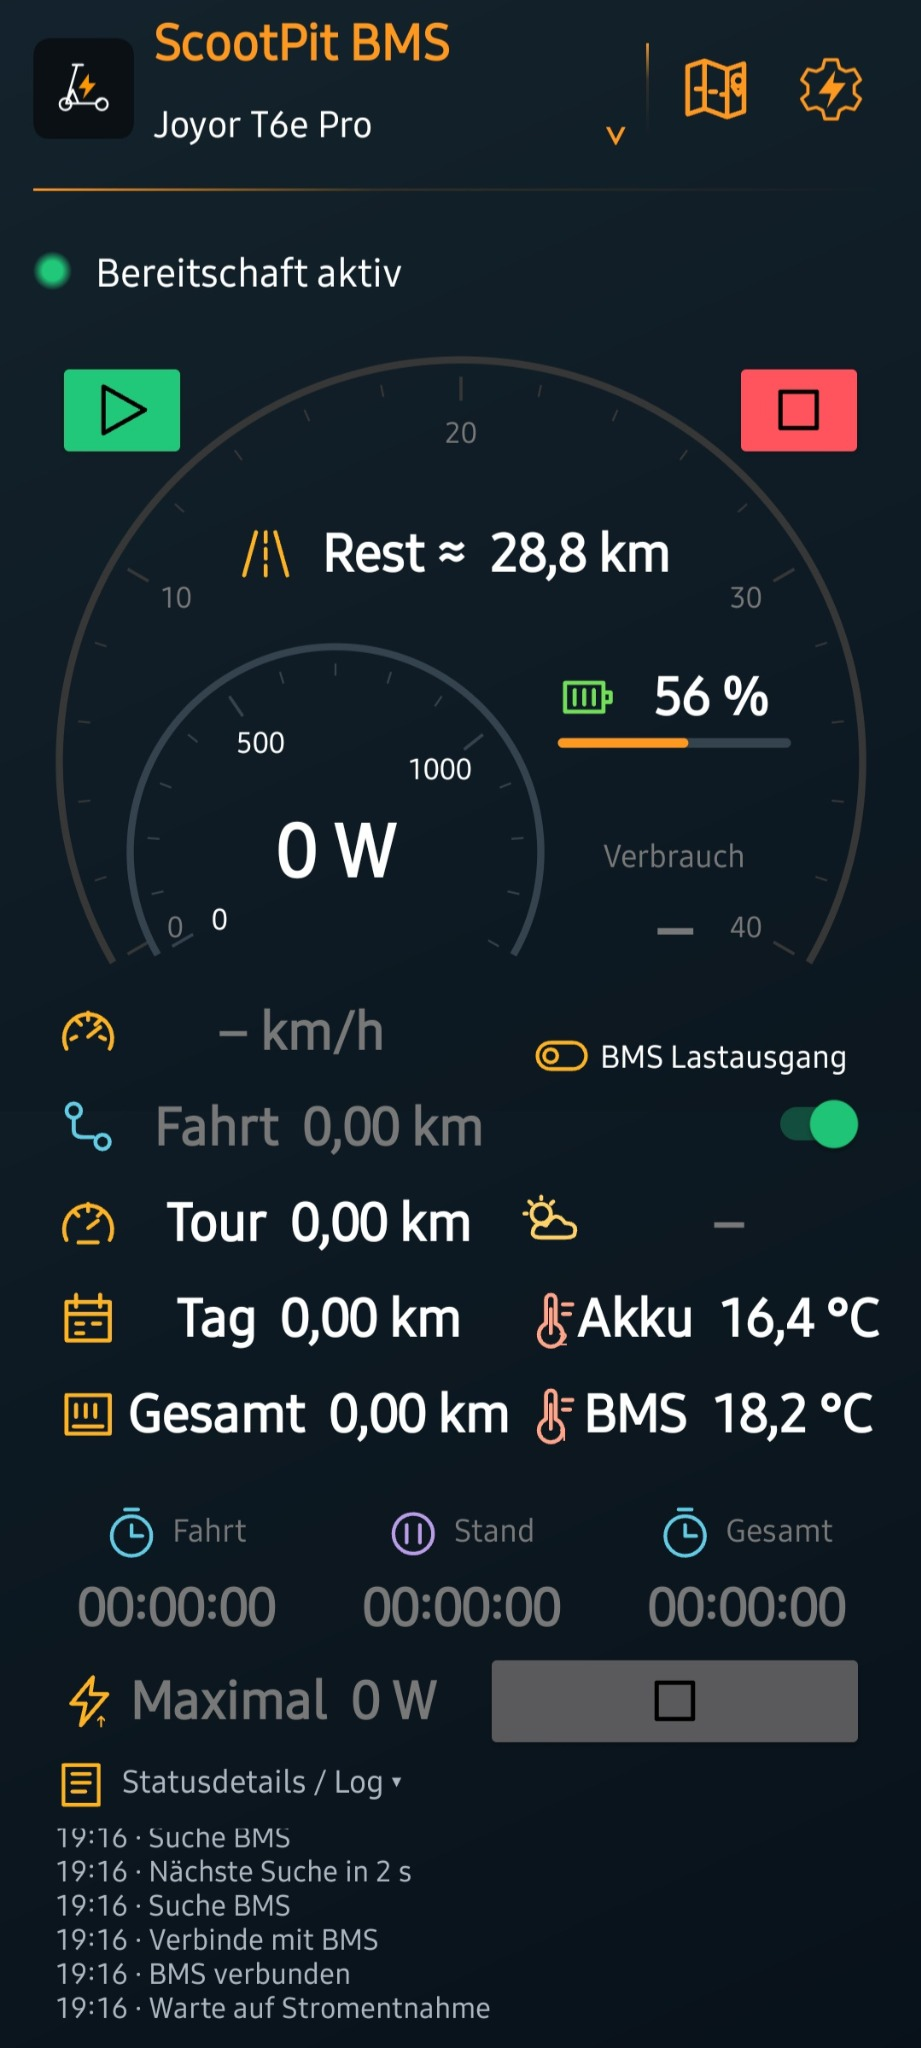
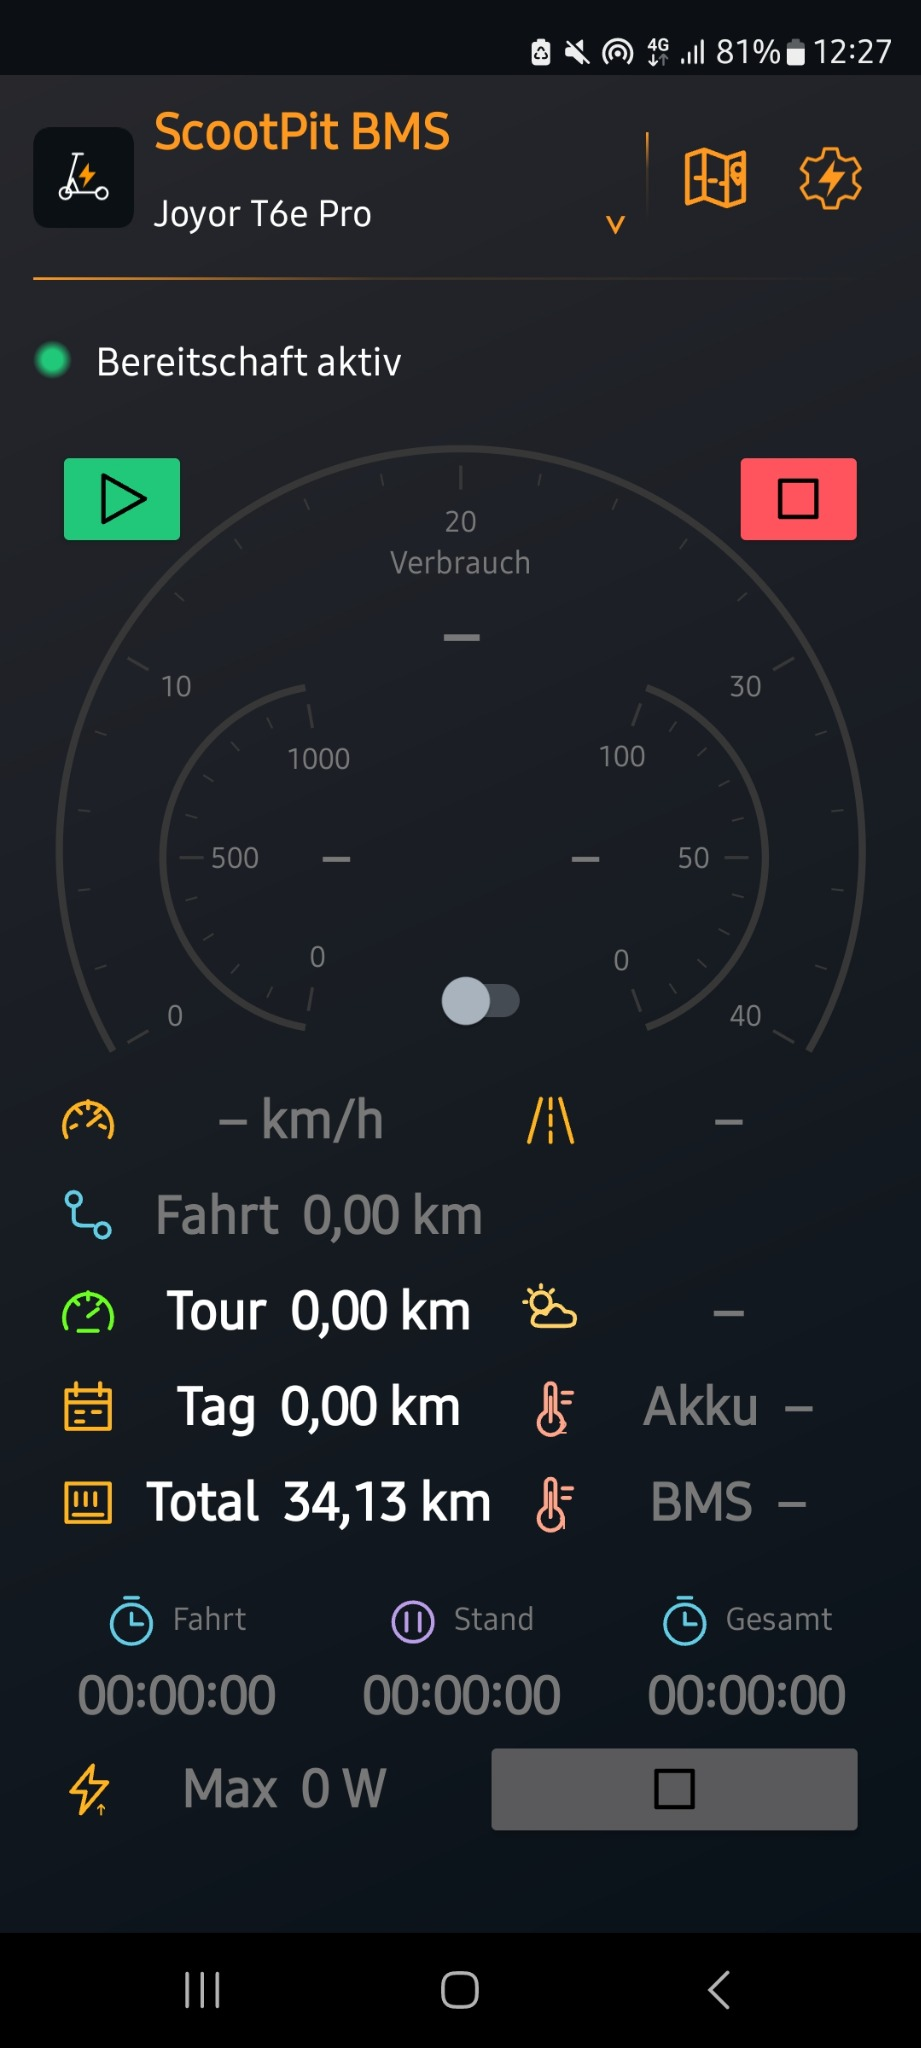
Update 1.5.5 cockpit screenshots
Replace README and store listing screenshots with current 1.5.5 dark and light portrait and landscape captures, including device and Android captions.

diff --git a/README.md b/README.md
@@ -16,13 +16,25 @@ Mehrere gespeicherte Scooter? Die App prüft erreichbare BMS nacheinander und ü
 
 Am Lenker wird ScootPit zum **persönlichen Energie-Cockpit**: Der Verbrauch einer frei wählbaren Strecke und die aktuelle elektrische Leistung stehen im Mittelpunkt. Akku, Restreichweite, Kilometer und Temperaturen ergänzen die Übersicht; GPS-Geschwindigkeit bleibt als kleinere Anzeige verfügbar.
 
-![ScootPit-Cockpit im dunklen Farbschema mit aktuellen Messwerten](docs/assets/screenshots/cockpit-dunkel.jpg)
+### Hochformat
 
-<em>Das aktuelle Cockpit im dunklen Farbschema mit überlagerten Anzeigen und Statuswerten.</em>
+![ScootPit-Cockpit im dunklen Design im Hochformat](docs/assets/screenshots/cockpit-dunkel.jpg)
 
-![ScootPit-Cockpit im hellen Farbschema mit aktuellen Messwerten](docs/assets/screenshots/cockpit-hell.jpg)
+<em>Dunkles Design im Hochformat · Samsung Galaxy S20 FE 5G · Android 13.</em>
 
-<em>Dasselbe aktuelle Cockpit im hellen Farbschema.</em>
+![ScootPit-Cockpit im hellen Design im Hochformat](docs/assets/screenshots/cockpit-hell.jpg)
+
+<em>Helles Design im Hochformat · Samsung Galaxy S10 · ArtisanROM Quant 3.1.1 (Android 16).</em>
+
+### Querformat
+
+![ScootPit-Cockpit im dunklen Design im Querformat](docs/assets/screenshots/cockpit-querformat-dunkel.jpg)
+
+<em>Dunkles Design im Querformat · Samsung Galaxy S20 FE 5G · Android 13.</em>
+
+![ScootPit-Cockpit im hellen Design im Querformat](docs/assets/screenshots/cockpit-querformat-hell.jpg)
+
+<em>Helles Design im Querformat · Samsung Galaxy S10 · ArtisanROM Quant 3.1.1 (Android 16).</em>
 
 ## Was bringt dir ScootPit?
 
